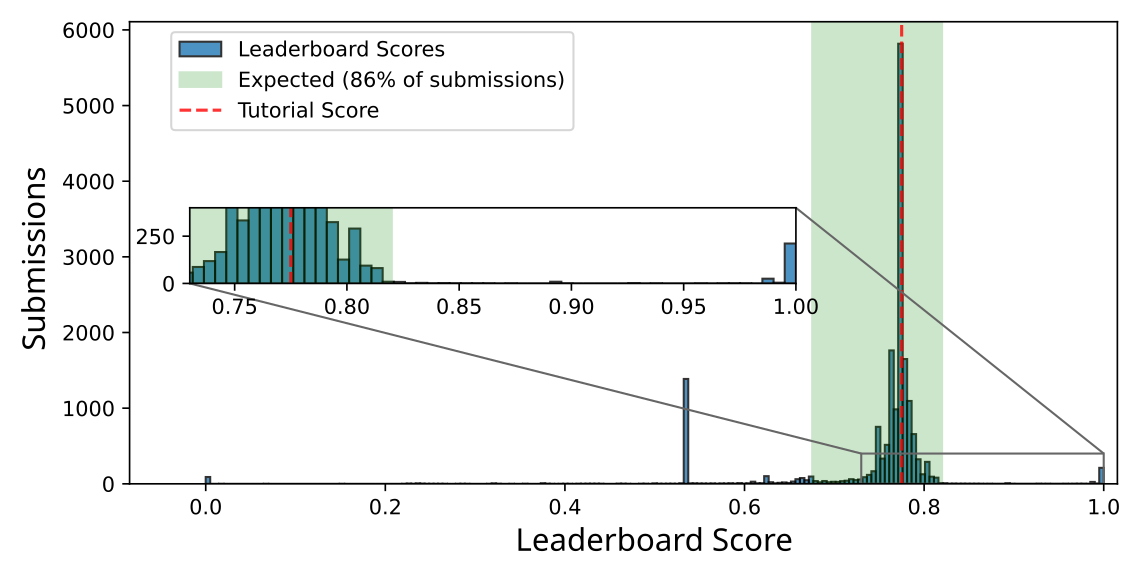
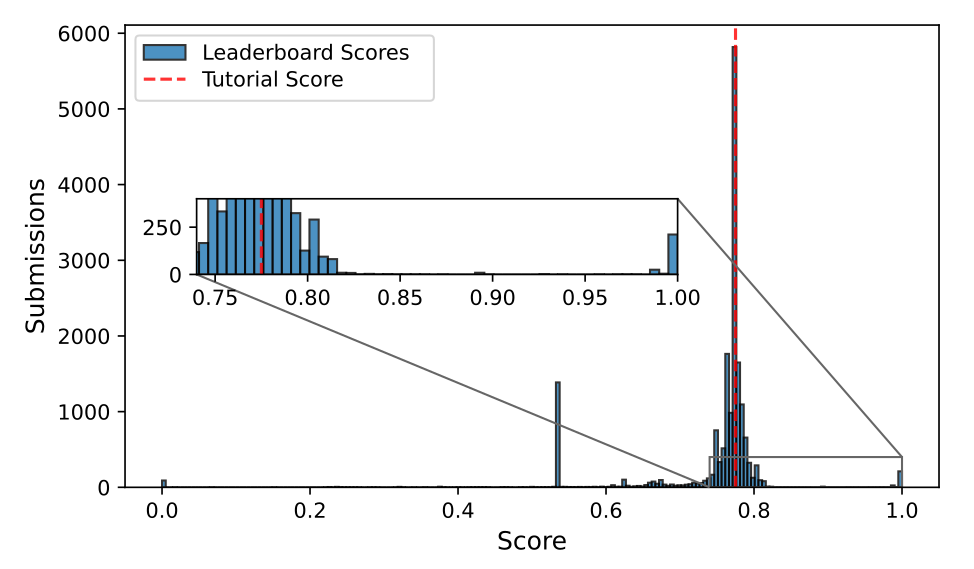
Update LB figure

Changed region(s): [[0.0, 0.0299, 0.9856, 0.9859], [0.0616, 0.6872, 0.1232, 0.7469], [0.924, 0.8963, 0.9548, 0.9262]]

diff --git a/README_in_progress.md b/README_in_progress.md
@@ -2,27 +2,52 @@
 
 Hi there! Welcome to a **deep study** for the *Titanic - Machine Learning from Disaster* competition, hosted by **Kaggle**. You can find my original competition notebook in this [link](https://www.kaggle.com/code/fertmeneses/titanic-kaggle-full-analysis)👈🏽.
 
-Here, you will find the story, told in simple terms, of how I've used **feature engineering**, **data edition** and **Machine Learning techniques** to train an algorithm that can predict whether a passenger survived the Titanic disaster based on many indicators such as their age, title and the fare they paid.
+Here, I tell you the story, in simple terms, of how I've used **feature engineering**, **data edition** and **Machine Learning techniques** to train an algorithm that can predict whether a passenger survived the Titanic disaster based on many indicators such as their age, title and the fare they paid.
 
 The progamming code is written in Python language, including well-known libraries like **pandas**, **numpy**, **matplotlib**, **sklearn** and **xgboost**.
 
 ## Introduction
 
-- - - - - - - - - - - - - - - - - -
-
 <img src="assets/Titanic_colorized.png" width=100%>
 
 The Titanic started its voyage in Southampton (UK) on 10 April 1912, made stops in Cherbourg (France), Queenstown (nowadays Cobh, Ireland) and then sailed to New York (US). Unfortunately, the ship never reached its destination but sank in the Atlantic ocean on 15 April 1912, after colliding with in iceberg.
 
-The collision with the iceberg ocurred around 23:40, with most of the passengers already gone to bed, and the evacuation was carried out in a very disorganized way, with unequal treatment of passengers from different classes. The 20 lifeboats carried by the ship could only accomodate 1,178 people, out of the 2,224 passenger and crew. The vessel RMS Carpathia arrived about 2 hours after the sinking, rescuing all survivors at that time.
+The collision with the iceberg ocurred around 23:40, with most of the passengers already gone to bed, and the evacuation was carried out in a very disorganized way, with unequal treatment of passengers from different classes. The 20 lifeboats carried by the ship could only accomodate 1,178 people, out of the 2,224 passengers and crew. The vessel RMS Carpathia arrived about 2 hours after the sinking, rescuing all survivors at that time.
 
 <img src="assets/Timeline_Titanic.png" width=100%>
 
-- - - - - - - - - - - - - - - - - -
+## Machine Learning expectations
+
+What do we expect from the Machine Learning approach in this challenge? Although we have much information available, **predicting whether a passenger survived the Titanic tragedy is not a deterministic problem**. Some passengers had a higher chance of survival than others, for example given their class or gender, but that didn't translate into certainty. Although the Machine Learning algorithm should easily find clear correlations between the dataset features and the survival chance, the real challenge is to discover "hidden" information, those subtle within the data patterns that escape our human intuition and may improve the predictions.
+
+By July/2024, the Leaderboard for the Kaggle competition showed the results of 17,700 submissions, evaluated by the predictions' accuracy (from 0 to 1) on the testing dataset. Most of the submissions scored between 0.74 and 0.82
+
+<img src="assets/LB_Titanic_figure.png" width=100%>
+
+Xxxxx continue from here
 
 [Machine learning challenge and accuracy expectations]
 
-<img src="assets/LB_Titanic_figure.png" width=100%>
+# <font color='teal'>Introduction: scores, motivation and expectations</font> <a class="anchor"  id="Introduction"></a>
+
+Let's say you build a machine learning (ML) model using a particular set of features to predict which passengers survived the Titanic disaster. You submit your results and get a score of 0.7756... is it a good result? <span style="font-weight:bold;">What reference value should you compare it to?</span> Should you aim for 0.9999? I've asked myself all these questions, and over many days, weeks (months?), I became more and more aware of my expectations...
+
+First of all, any result you get is a step forward, it means you are actively working to solve the problem. Second point: a perfect score 1 (or 0.9999) is unrealistic for ML solutions... we're not trying to solve a problem governed by precise laws of Physics, instead <span style="font-weight:bold;">we're dealing with a complex situation that involves some degree of uncertainty</span>. That said,  it's still important to establish a reasonable benchmark for the accuracy that we expect. Although I don't have an analytical way to determine that reference score, we can take a look at the <span style="font-weight:bold;">statistics available in the public Leaderboard</span> (updated on 20/Jul/2024, 17,700 submissions):
+
+A few observations here:
+* The <span style="color:blue;font-weight:bold;">raw data</span> for the scores is represented by the <span style="color:blue;font-weight:bold;">blue bars</span>, showing that scores are concentrated between 0.75 and 0.80. The scoring interval [0.7725, 0.7775] has the most submissions, approximately 6,000! 
+* The <span style="color:red;font-weight:bold;">red vertical line</span> shows the <span style="color:red;font-weight:bold;">tutorial score</span> 0.7750, in which a simple model with the original features is implemented.
+* The <span style="color:green;font-weight:bold;">shaded green area</span> indicates <span style="color:green;font-weight:bold;">typical expected scores</span>, with 86% of all submissions, according to the following criteria:
+    - For a minimum expectation, consider building a model that always predicts that a passenger does not survive. Because we know that 1502 out of 2224 passengers didn't survive, the average accuracy will be 1502/2224=0.675.
+    - For the highest expected score, I've chosen a 0.82 score based on the performance of other Kagglers' notebooks and their comments.
+
+<span style="font-weight:bold;">Is it possible to get a perfect score 1?</span> Since the Titanic is a "Getting Started" competition and you can submit your solutions multiple times (with some daily limits), in principle you could explore all possible survival combinations until you get the right one. Or, to save time, you could just use the Solution File! <span style="font-weight:bold;">If you look around the Kagglers' comments, you will eventually find the link to the <a href="https://storage.googleapis.com/kaggle-forum-message-attachments/66979/2180/titanic.csv">Solution file</a></span> .
+
+That explains <span style="font-weight:bold;">why there are some so many perfect scores in the Leaderboard...</span> But don't let these unfair results discourage you, the Titanic competition is meant to be a learning experience, and it's up to each one how to spend their time. <span style="font-weight:bold;">In fact, this Notebook is going to use the solution file!</span> Not for cheating, but <span style="font-weight:bold;">to accelerate research and get immediate feedback</span> on the various features and ML models that I'm going to explore. So when I share my Submission scores, now you know how.
+
+<hr>
+
+
 
 - - - - - - - - - - - - - - - - - -
 
